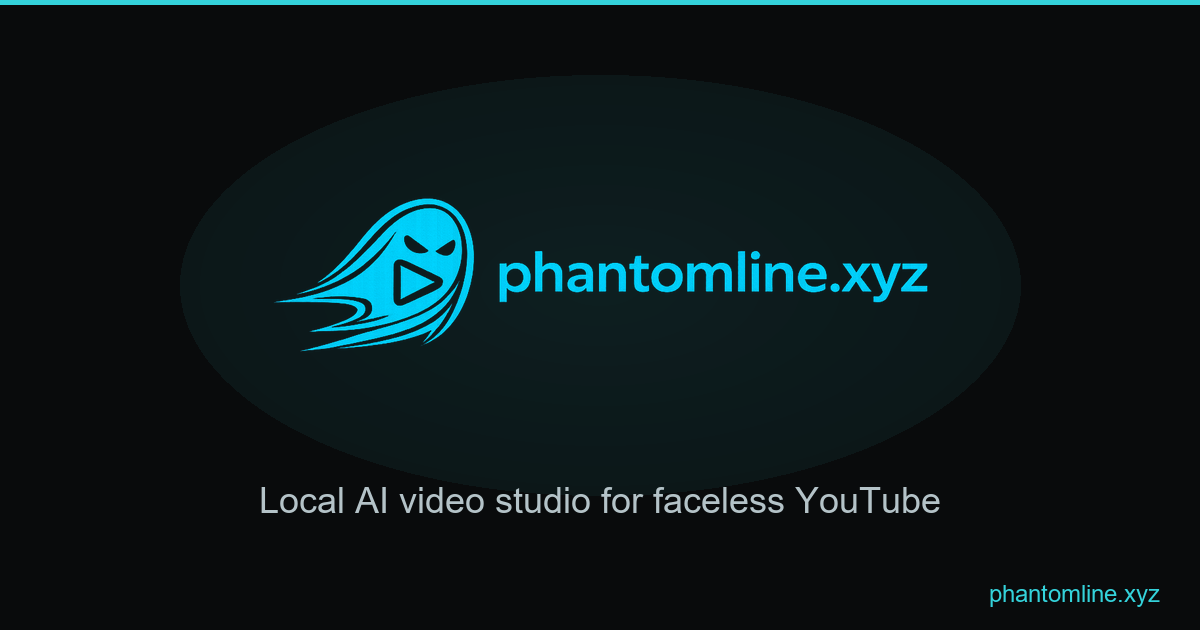
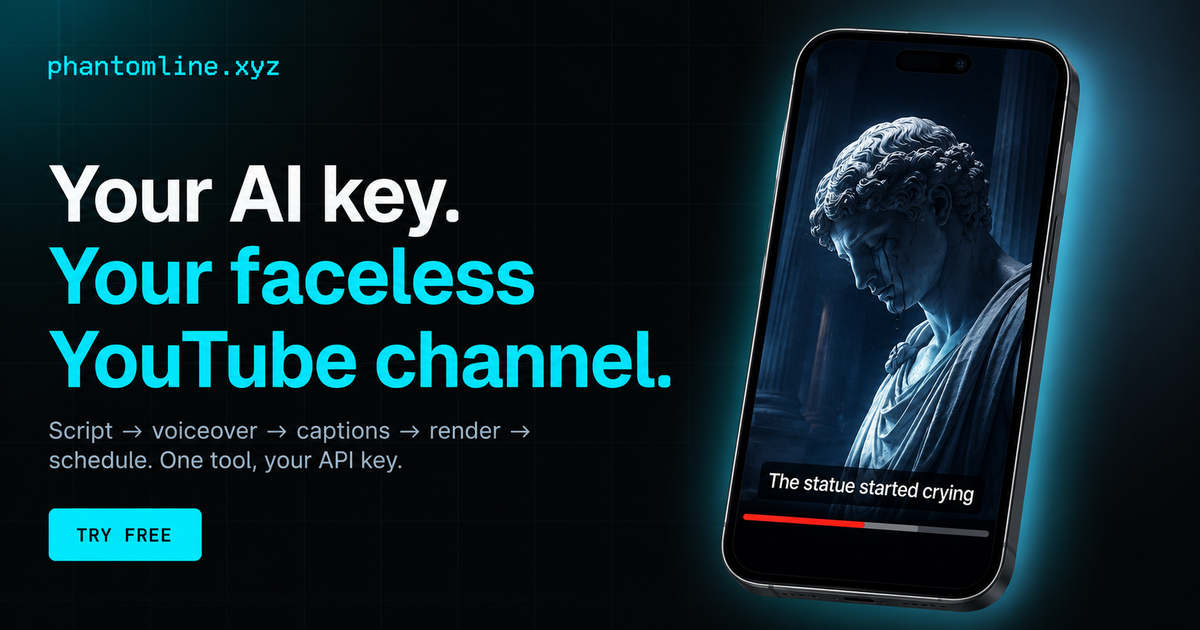
Replace OG meta image with the new branded mockup
New 1200x630 social-share image: dark background, brand cyan headline
('Your AI key. Your faceless YouTube channel.'), phone mockup with the
'statue started crying' Short on the right, 'Try Free' CTA bottom-left.

Replaces the placeholder phantomline-og.png. All 61 templates already
reference the same filename, so no template changes needed — every
page's og:image and twitter:image now point at the new asset.

Also added phantomline-og.jpg (104KB) as a lighter-weight fallback for
any platform that prefers JPEG.

SW cache bumped to v39 so PWA visitors pick up the fresh asset.

diff --git a/static/sw.js b/static/sw.js
@@ -13,7 +13,7 @@
 // rebuilt account portal (tabs: overview/licenses/billing/settings,
 // robust error handling, /api/account/me + /invoices wiring) reaches
 // existing visitors immediately on next page load.
-const CACHE_VERSION = "phantomline-v38";
+const CACHE_VERSION = "phantomline-v39";
 const STATIC_CACHE = `${CACHE_VERSION}-static`;
 const SHELL_CACHE = `${CACHE_VERSION}-shell`;
 